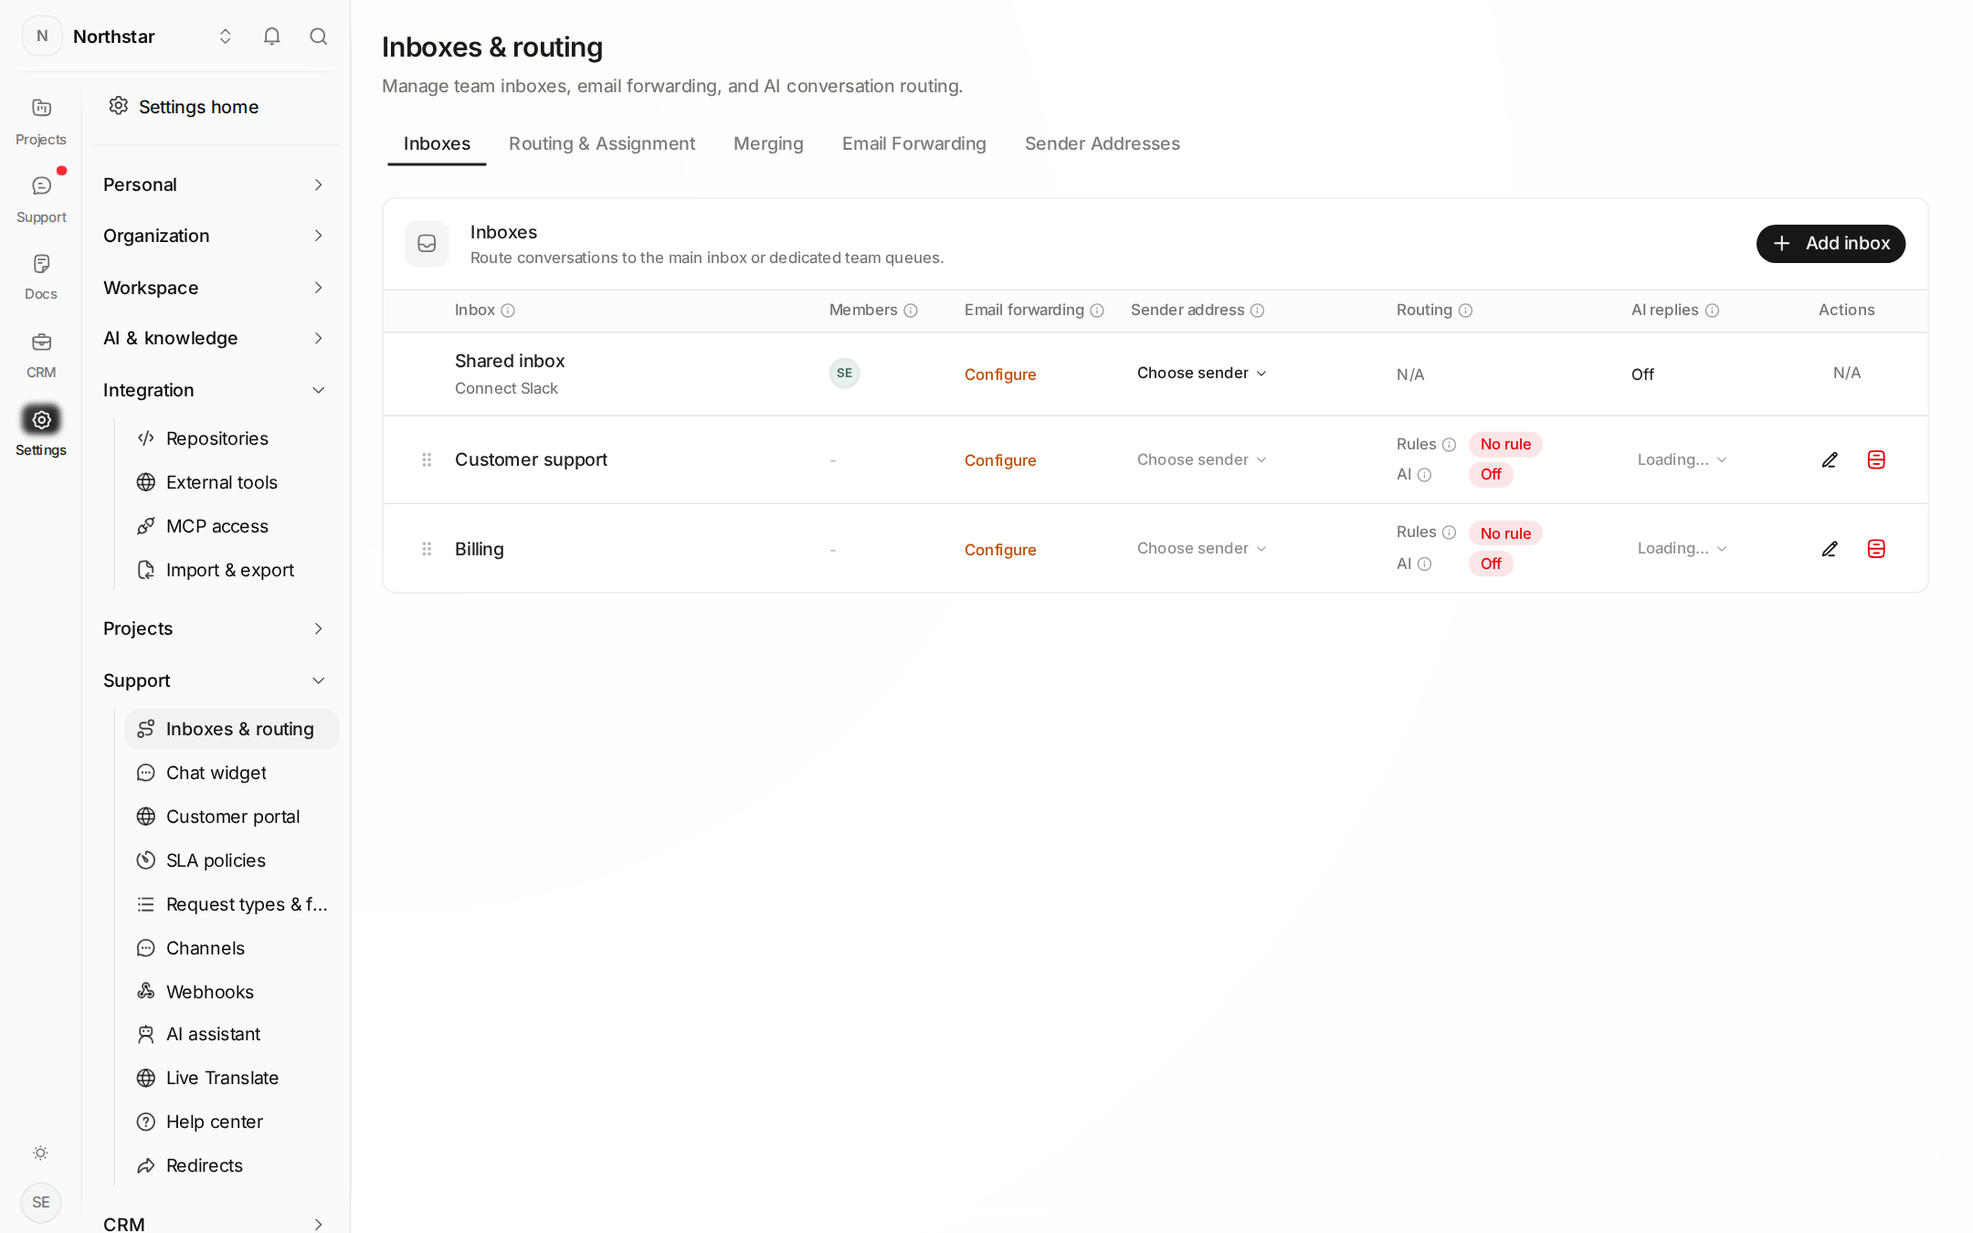
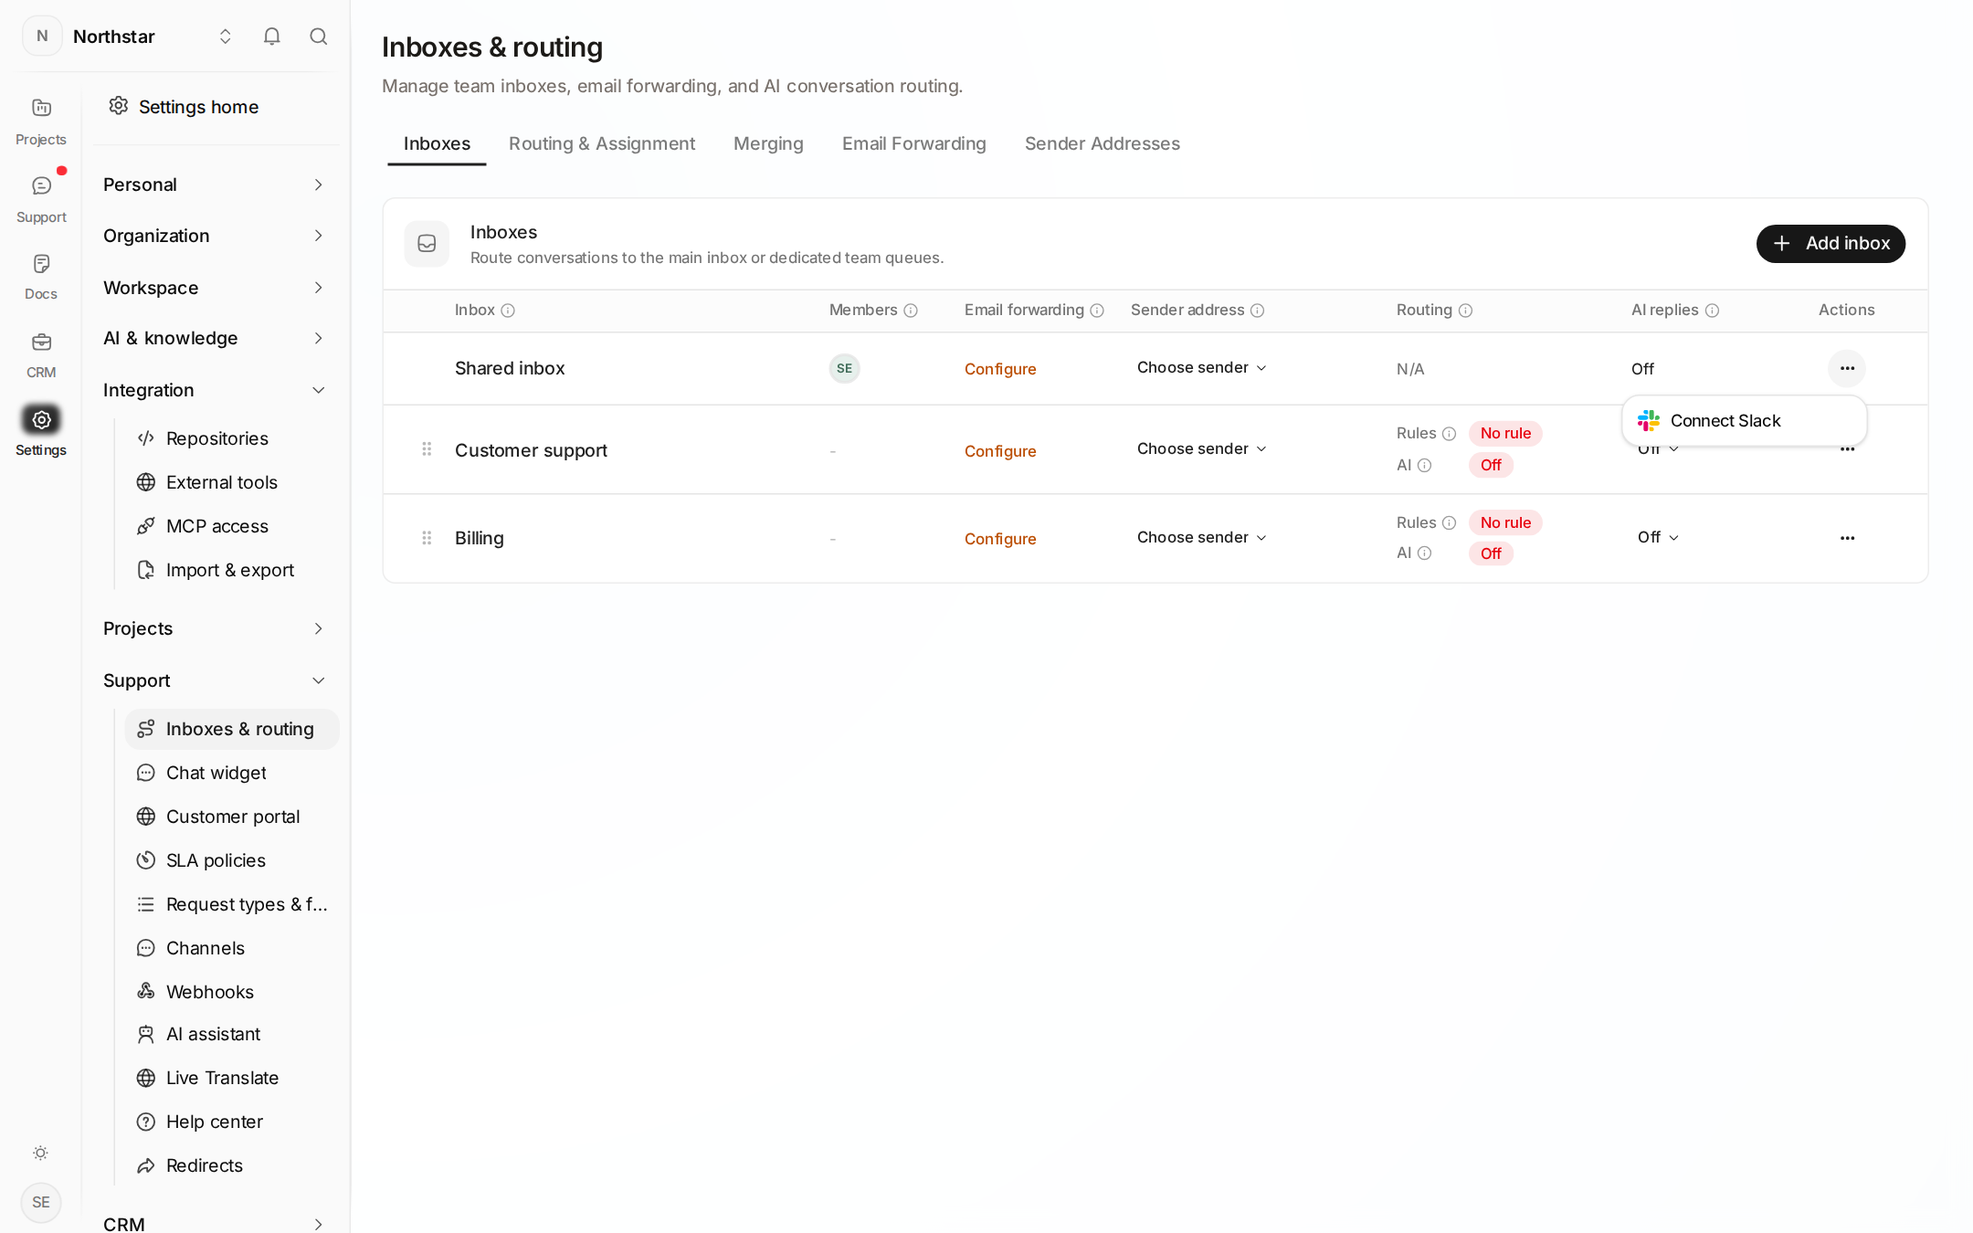
Clarify Slack rule destinations and group inbox actions

diff --git a/frontend/src/components/settings/ConversationRoutingTab.tsx b/frontend/src/components/settings/ConversationRoutingTab.tsx
@@ -2,7 +2,7 @@ import { InboxAIRepliesCell, InboxSenderCell } from './InboxTableControls';
 import { TeamLabel } from '@/components/workspace/TeamLabel';
 import { SettingsSaveBar } from './SettingsSaveBar';
 import { useEffect, useMemo, useState, type ReactNode } from 'react';
-import { Alert01Icon, ArchiveIcon, ArrowDown01Icon, DragDropVerticalIcon, InboxIcon, InformationCircleIcon, PencilEdit01Icon, PlusSignIcon, Settings02Icon, UndoIcon, UserGroupIcon } from '@/lib/icons';
+import { Alert01Icon, ArchiveIcon, ArrowDown01Icon, DragDropVerticalIcon, InboxIcon, InformationCircleIcon, MoreHorizontalIcon, PencilEdit01Icon, PlusSignIcon, Settings02Icon, SlackIcon, UndoIcon, UserGroupIcon } from '@/lib/icons';
 import {
   DndContext,
   closestCenter,
@@ -22,12 +22,13 @@ import {
 import { CSS } from '@dnd-kit/utilities';
 import { useQueryClient } from '@tanstack/react-query';
 import { toast } from 'sonner';
-import { InboxSlackChannelRow } from '@/components/settings/channels/InboxSlackChannelRow';
+import { useInboxSlackChannel } from '@/components/settings/channels/InboxSlackChannelRow';
 import { TeamInboxDialog } from '@/components/support/TeamInboxDialog';
 import { UserAvatar } from '@/components/pm/UserAvatar';
 import { useConfirm } from '@/components/ui/confirm-dialog';
 import { Badge } from '@/components/ui/badge';
 import { Button } from '@/components/ui/button';
+import { DropdownMenu, DropdownMenuContent, DropdownMenuItem, DropdownMenuSeparator, DropdownMenuTrigger } from '@/components/ui/dropdown-menu';
 import { Checkbox } from '@/components/ui/checkbox';
 import { Input } from '@/components/ui/input';
 import { Label } from '@/components/ui/label';
@@ -649,7 +650,6 @@ function SharedInboxRoutingRow({
           <div className="flex items-center gap-2">
             <span className="block truncate text-sm font-medium text-foreground">Shared inbox</span>
           </div>
-          <InboxSlackChannelRow workspaceId={workspaceId} mailboxId="shared" compact />
         </div>
       </div>
       <InboxTableCell label="Members"><InboxMembersPreview members={supportMembers} /></InboxTableCell>
@@ -657,9 +657,7 @@ function SharedInboxRoutingRow({
       <InboxTableCell label="Sender address"><InboxSenderCell workspaceId={workspaceId} sender={emailSender} /></InboxTableCell>
       <InboxTableCell label="Routing"><NotApplicableCell /></InboxTableCell>
       <InboxTableCell label="AI replies"><InboxAIRepliesCell workspaceId={workspaceId} /></InboxTableCell>
-      <div className="flex items-center justify-center">
-        <NotApplicableCell />
-      </div>
+      <InboxActionsMenu workspaceId={workspaceId} mailboxId="shared" name="Shared inbox" />
     </div>
   );
 }
@@ -735,51 +733,45 @@ function SortableInboxRoutingRow({
         </> : <span className="text-muted-foreground">Disabled</span>}
       </div></InboxTableCell>
       <InboxTableCell label="AI replies"><InboxAIRepliesCell workspaceId={mailbox.workspace_id} mailbox={mailbox} /></InboxTableCell>
-      <div className="flex items-center justify-start gap-1 lg:justify-end">
-        <IconButtonTooltip label="Edit">
-          <Button variant="ghost" size="icon" className="h-8 w-8" onClick={() => onEdit(mailbox)} aria-label={`Edit ${mailbox.name}`}>
-            <PencilEdit01Icon className="h-3.5 w-3.5" />
-          </Button>
-        </IconButtonTooltip>
+      <InboxActionsMenu workspaceId={mailbox.workspace_id} mailboxId={mailbox.id} name={mailbox.name}
+        onEdit={() => onEdit(mailbox)}>
         {mailbox.active ? (
-          <IconButtonTooltip label="Archive">
-            <Button
-              variant="ghost"
-              size="icon"
-              className="h-8 w-8"
-              disabled={isArchiving}
-              onClick={() => onArchive(mailbox)}
-              aria-label={`Archive ${mailbox.name}`}
-            >
-              <ArchiveIcon className="h-3.5 w-3.5 text-destructive" />
-            </Button>
-          </IconButtonTooltip>
+          <DropdownMenuItem variant="destructive" disabled={isArchiving} onSelect={() => onArchive(mailbox)}>
+            <ArchiveIcon /> Archive inbox
+          </DropdownMenuItem>
         ) : (
-          <IconButtonTooltip label="Restore">
-            <Button
-              variant="ghost"
-              size="icon"
-              className="h-8 w-8"
-              disabled={isRestoring}
-              onClick={() => onRestore(mailbox)}
-              aria-label={`Restore ${mailbox.name}`}
-            >
-              <UndoIcon className="h-3.5 w-3.5 text-emerald-600 dark:text-emerald-400" />
-            </Button>
-          </IconButtonTooltip>
+          <DropdownMenuItem disabled={isRestoring} onSelect={() => onRestore(mailbox)}>
+            <UndoIcon /> Restore inbox
+          </DropdownMenuItem>
         )}
-      </div>
+      </InboxActionsMenu>
     </div>
   );
 }
 
-function IconButtonTooltip({ label, children }: { label: string; children: ReactNode }) {
-  return (
-    <Tooltip>
-      <TooltipTrigger asChild>{children}</TooltipTrigger>
-      <TooltipContent side="top">{label}</TooltipContent>
-    </Tooltip>
-  );
+function InboxActionsMenu({ workspaceId, mailboxId, name, onEdit, children }: {
+  workspaceId: string; mailboxId: string; name: string; onEdit?: () => void; children?: ReactNode;
+}) {
+  const slack = useInboxSlackChannel(workspaceId, mailboxId);
+  if (!onEdit && !slack) return <InboxTableCell label="Actions"><NotApplicableCell /></InboxTableCell>;
+  return <InboxTableCell label="Actions">
+    <div className="flex @min-[1050px]:justify-center">
+      <DropdownMenu>
+        <DropdownMenuTrigger asChild>
+          <Button variant="ghost" size="icon" className="size-8" aria-label={`Actions for ${name}`}><MoreHorizontalIcon /></Button>
+        </DropdownMenuTrigger>
+        <DropdownMenuContent align="end" className="w-max max-w-[calc(100vw-2rem)]">
+          {onEdit && <DropdownMenuItem onSelect={onEdit}><PencilEdit01Icon /> Edit inbox</DropdownMenuItem>}
+          {slack && <DropdownMenuItem asChild>
+            <a href={slack.href}><SlackIcon />{slack.channelName ? 'Manage Slack channel' : 'Connect Slack'}
+              {slack.channelName && <span className="truncate text-xs text-muted-foreground">{slack.channelName}</span>}
+            </a>
+          </DropdownMenuItem>}
+          {children && <><DropdownMenuSeparator />{children}</>}
+        </DropdownMenuContent>
+      </DropdownMenu>
+    </div>
+  </InboxTableCell>;
 }
 
 function ColumnHeaderTooltip({ label, tooltip, className }: { label: string; tooltip?: string; className?: string }) {
@@ -1316,6 +1308,7 @@ export function ConversationRoutingTab({
 
       <TeamInboxDialog
         workspaceId={workspaceId}
+        showSlackChannel={false}
         open={mailboxDialogOpen}
         onOpenChange={(open) => {
           setMailboxDialogOpen(open);

diff --git a/frontend/src/components/settings/channels/SlackChannels.tsx b/frontend/src/components/settings/channels/SlackChannels.tsx
@@ -1,4 +1,4 @@
-import { useState } from 'react'
+import { Fragment, useState } from 'react'
 import { useQuery, useQueryClient, useMutation, type UseQueryResult } from '@tanstack/react-query'
 import { toast } from 'sonner'
 import { Button } from '@/components/ui/button'
@@ -56,34 +56,35 @@ const errorText = (error: unknown) =>
   error instanceof Error ? error.message : 'Could not update Slack settings'
 
 const inboxList = new Intl.ListFormat('en', { type: 'disjunction' })
+const ruleNameClass = 'font-semibold text-foreground'
+const entityWords = { inbox: /\binbox(?:es)?\b/i, team: /\bteams?\b/i, epic: /\bepics?\b/i }
+
+function ruleDestination(kind: keyof typeof entityWords, name?: string) {
+  if (!name) return `the selected ${kind}`
+  return <>the <strong className={ruleNameClass}>{name}</strong>{!entityWords[kind].test(name) && ` ${kind}`}</>
+}
 
 function describeRule(route: SlackRoute, inboxName: (id?: string | null) => string | undefined, team?: string, epic?: string) {
   switch (route.purpose) {
     case 'support':
-      return `Each new customer thread opens a conversation in ${inboxName(route.mailbox_id) ?? 'the selected inbox'}.`
+      return <>Each new customer thread opens a conversation in {ruleDestination('inbox', inboxName(route.mailbox_id))}.</>
     case 'mixed':
-      return `Use “Create support request” on a Slack message to open a conversation in ${inboxName(route.mailbox_id) ?? 'the selected inbox'}.`
+      return <>Use “Create support request” on a Slack message to open a conversation in {ruleDestination('inbox', inboxName(route.mailbox_id))}.</>
     case 'inbox': {
-      const names = (route.mailbox_ids ?? []).map(id => inboxName(id))
-      const inboxes = names.length && names.every((name): name is string => !!name)
-        ? inboxList.format(names) : names.length === 1 ? 'the selected inbox' : 'the selected inboxes'
-      return `Each new conversation in ${inboxes} gets its own thread here.`
+      const inboxes = inboxList.formatToParts(route.mailbox_ids ?? []).map((part, index) => (
+        <Fragment key={index}>{part.type === 'element' ? ruleDestination('inbox', inboxName(part.value)) : part.value}</Fragment>
+      ))
+      return <>Each new conversation in {inboxes.length ? inboxes : 'the selected inboxes'} gets its own thread here.</>
     }
-    case 'pm': {
-      const defaults = [
-        route.team_id && (team ? `the ${team} team` : 'the selected team'),
-        route.epic_id && (epic ? `the ${epic} epic` : 'the selected epic'),
-      ].filter(Boolean)
-      return defaults.length
-        ? `Tasks created here default to ${defaults.join(' and ')}.`
-        : 'Create and follow Helpin tasks here. Choose a team when creating a task.'
-    }
+    case 'pm':
+      if (!route.team_id && !route.epic_id) return 'Create and follow Helpin tasks here. Choose a team when creating a task.'
+      return <>Tasks created here default to {route.team_id && ruleDestination('team', team)}{route.team_id && route.epic_id && ' and '}{route.epic_id && ruleDestination('epic', epic)}.</>
   }
 }
 
 function RuleCompany({ workspaceId, id }: { workspaceId: string; id: string }) {
   const { data } = useCompany(workspaceId, id)
-  return data?.name ? <span className="text-xs font-normal text-muted-foreground">Default company · {data.name}</span> : null
+  return data?.name ? <span className="text-xs font-normal text-muted-foreground">Default company · <strong className={ruleNameClass}>{data.name}</strong></span> : null
 }
 
 export function SlackChannels({
@@ -252,7 +253,7 @@ export function SlackChannels({
                 className="flex h-auto w-full flex-col items-start gap-1 whitespace-normal rounded-none border-b py-3 text-left last:border-b-0"
               >
                 <span className="flex max-w-full items-baseline gap-2">
-                  <span className="truncate font-medium">{slackChannelLabel(route.channel_name)}</span>
+                  <span className="truncate font-semibold">{slackChannelLabel(route.channel_name)}</span>
                   {channels.data?.some(channel => channel.id === route.channel_id && channel.is_ext_shared) &&
                     <span className="shrink-0 text-xs font-normal text-muted-foreground">Slack Connect</span>}
                 </span>
@@ -364,12 +365,13 @@ function RouteDialog({
             disabled={!!initial.channel_id}
             options={(channels.data ?? []).filter(c => !(c.is_ext_shared || c.is_pending_ext_shared) || route.purpose === 'support' || route.purpose === 'mixed')
               .map(c => ({value:c.id, label:slackChannelLabel(c.name) + (c.is_ext_shared ? ' · Slack Connect' : '')}))}
+            footer={<div className="flex items-center justify-between gap-2 px-2 py-1.5 text-xs text-muted-foreground">
+              <span>Missing a private channel? Run <code className="whitespace-nowrap">/invite @Helpin</code> there.</span>
+              <button type="button" className="shrink-0 font-medium text-foreground hover:underline disabled:opacity-50" disabled={channels.isFetching}
+                onClick={() => void channels.refetch()}>{channels.isFetching ? 'Refreshing…' : 'Refresh'}</button>
+            </div>}
             onChange={channel_id => setRoute({ ...route, channel_id })} />
         } />
-        {!initial.channel_id && <details className="text-xs text-muted-foreground">
-          <summary className="w-fit cursor-pointer">Missing a private channel?</summary>
-          <p className="mt-1">In Slack, use <code>/invite @Helpin</code>, then <button type="button" className="underline" onClick={() => void channels.refetch()}>refresh channels</button>.</p>
-        </details>}
         {channels.isError && <p role="alert" className="text-xs text-destructive">{errorText(channels.error)}</p>}
         {route.purpose === 'inbox' && <p className="text-xs text-muted-foreground">Thread replies become internal notes. Use “Reply to customer” to send a response.</p>}
         {route.purpose === 'inbox' && selected && !selected.is_private &&

diff --git a/frontend/src/components/settings/channels/InboxSlackChannelRow.tsx b/frontend/src/components/settings/channels/InboxSlackChannelRow.tsx
@@ -5,11 +5,7 @@ import { slackService } from '@/lib/services/slackService'
 import { slackChannelLabel } from '@/lib/supportChannels'
 import { useWorkspaceStore } from '@/stores/workspaceStore'
 
-export function InboxSlackChannelRow({ workspaceId, mailboxId, compact = false }: {
-  workspaceId: string
-  mailboxId: string
-  compact?: boolean
-}) {
+export function useInboxSlackChannel(workspaceId: string, mailboxId: string) {
   const slug = useWorkspaceStore(state => state.currentWorkspace?.slug)
   const { data: access } = useWorkspaceAccess(workspaceId)
   const allowed = !!access?.permissions?.includes('settings.manage') && !!access.permissions.includes('support.admin')
@@ -20,11 +16,19 @@ export function InboxSlackChannelRow({ workspaceId, mailboxId, compact = false }
   })
   if (!allowed || !data?.configured || !slug) return null
   const channel = data.routes?.find(rule => rule.purpose === 'inbox' && rule.mailbox_ids?.includes(mailboxId))
-  const link = (
+  return {
+    href: `/w/${encodeURIComponent(slug)}/settings/external-tools?tab=apps&slack_inbox=${encodeURIComponent(mailboxId)}`,
+    channelName: channel ? slackChannelLabel(channel.channel_name) : null,
+  }
+}
+
+export function InboxSlackChannelRow({ workspaceId, mailboxId }: { workspaceId: string; mailboxId: string }) {
+  const slack = useInboxSlackChannel(workspaceId, mailboxId)
+  if (!slack) return null
+  return <QuietPropertyRow label="Slack channel" value={
     <a className="text-xs text-muted-foreground hover:text-foreground hover:underline"
-      href={`/w/${encodeURIComponent(slug)}/settings/external-tools?tab=apps&slack_inbox=${encodeURIComponent(mailboxId)}`}>
-      {compact ? (channel ? `Slack · ${slackChannelLabel(channel.channel_name)}` : 'Connect Slack') : (channel ? `${slackChannelLabel(channel.channel_name)} · Manage` : 'Connect channel')}
+      href={slack.href}>
+      {slack.channelName ? `${slack.channelName} · Manage` : 'Connect channel'}
     </a>
-  )
-  return compact ? link : <QuietPropertyRow label="Slack channel" value={link} />
+  } />
 }

diff --git a/.mockups/slack-inbox-feed/index.html b/.mockups/slack-inbox-feed/index.html
@@ -9,6 +9,7 @@
 <figure id="inbox-rule"><a href="inbox-rule.png"><img alt="Saved inbox rule" src="inbox-rule.png"><figcaption>Saved inbox rule</figcaption></a></figure>
 <figure id="public-channel"><a href="public-channel.png"><img alt="Public channel visibility" src="public-channel.png"><figcaption>Public channel visibility</figcaption></a></figure>
 <figure id="customer-intake"><a href="customer-intake.png"><img alt="Customer requests from Slack Connect" src="customer-intake.png"><figcaption>Customer requests from Slack Connect</figcaption></a></figure>
-<figure id="inboxes"><a href="inboxes.png"><img alt="Shared inbox shortcut" src="inboxes.png"><figcaption>Shared inbox shortcut</figcaption></a></figure>
+<figure id="inboxes"><a href="inboxes.png"><img alt="Connect Slack from the shared inbox actions menu" src="inboxes.png"><figcaption>Shared inbox actions</figcaption></a></figure>
+<figure id="inbox-actions"><a href="inbox-actions.png"><img alt="Edit, manage Slack, or archive a team inbox" src="inbox-actions.png"><figcaption>Team inbox actions</figcaption></a></figure>
 <figure id="inbox-settings"><a href="inbox-settings.png"><img alt="Team inbox settings" src="inbox-settings.png"><figcaption>Team inbox settings</figcaption></a></figure>
 <figure id="conversation-actions"><a href="conversation-actions.png"><img alt="Open the Slack thread from Helpin" src="conversation-actions.png"><figcaption>Open the Slack thread from Helpin</figcaption></a></figure></section></main></body></html>

diff --git a/frontend/src/components/design-system/quiet-select.tsx b/frontend/src/components/design-system/quiet-select.tsx
@@ -58,6 +58,7 @@ interface QuietFilterDropdownBaseProps {
   /** Search matches option labels; enabled by default in both selection modes. */
   searchable?: boolean;
   popoverClassName?: string;
+  footer?: ReactNode;
   /** Hairline border for a filter that stands alone beside content rather than in a filter toolbar. */
   bordered?: boolean;
   /** Name selected items in a form where the field already has a visible label. */
@@ -104,7 +105,7 @@ export function QuietFilterDropdown(props: QuietFilterDropdownProps) {
         <QuietDropdown label={label} open={open} onOpenChange={setOpen} disabled={disabled}
           selected={selected} options={options.map(option => ({ ...option, className: option.labelClassName }))}
           multiple={props.multiple} onSelect={select} searchMode={searchable ? 'auto' : 'off'}
-          searchPlaceholder={`Search ${label.toLowerCase()}…`} contentClassName={popoverClassName}
+          searchPlaceholder={`Search ${label.toLowerCase()}…`} contentClassName={popoverClassName} footer={props.footer}
           trigger={(
             <button
               ref={triggerRef}

diff --git a/frontend/src/components/support/TeamInboxDialog.tsx b/frontend/src/components/support/TeamInboxDialog.tsx
@@ -238,11 +238,13 @@ export function TeamInboxDialog({
   open,
   onOpenChange,
   mailbox,
+  showSlackChannel = true,
 }: {
   workspaceId: string;
   open: boolean;
   onOpenChange: (open: boolean) => void;
   mailbox?: SupportMailbox | null;
+  showSlackChannel?: boolean;
 }) {
   const [step, setStep] = useState<DialogStepNumber>(1);
   const [form, setForm] = useState<MailboxFormState>(DEFAULT_FORM);
@@ -750,7 +752,7 @@ export function TeamInboxDialog({
                 </div>
               </div>
 
-              {mailbox && workspaceSlug && <InboxSlackChannelRow workspaceId={workspaceId} mailboxId={mailbox.id} />}
+              {showSlackChannel && mailbox && workspaceSlug && <InboxSlackChannelRow workspaceId={workspaceId} mailboxId={mailbox.id} />}
               <div className="space-y-1.5">
                 <FieldLabel htmlFor="team-inbox-description" tip="An internal note for your team explaining what this inbox is for. Not shown to customers.">
                   Description <span className="font-normal text-muted-foreground">(optional)</span>
